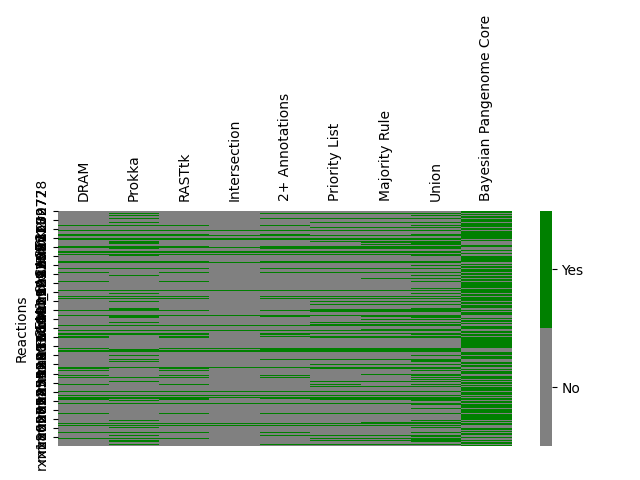
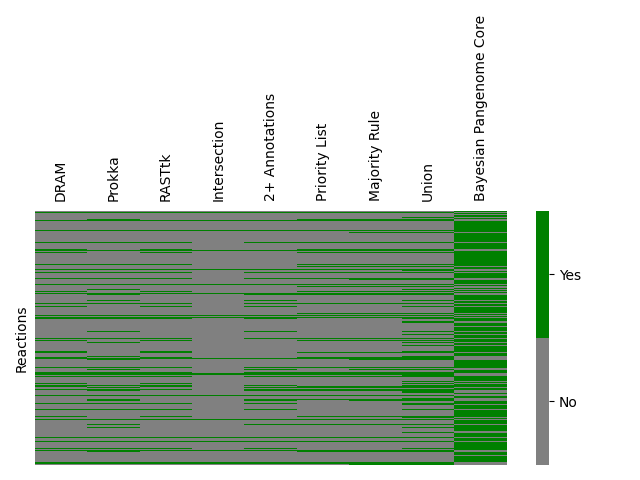
Remove y tick labels

Changed region(s): [[0.0, 0.1875, 0.9062, 0.9688], [0.7188, 0.0312, 0.7812, 0.4062]]

diff --git a/kbase_models/plot_rxn_matrix.py b/kbase_models/plot_rxn_matrix.py
@@ -15,7 +15,8 @@ cmap = ['gray', 'green'] # TODO: Pick better colors
 
 # Plot the heatmap
 ax = sns.heatmap(plotting_matrix,
-                 cmap=cmap)
+                 cmap=cmap,
+                 yticklabels=False)
 
 # modify colorbar:
 colorbar = ax.collections[0].colorbar
